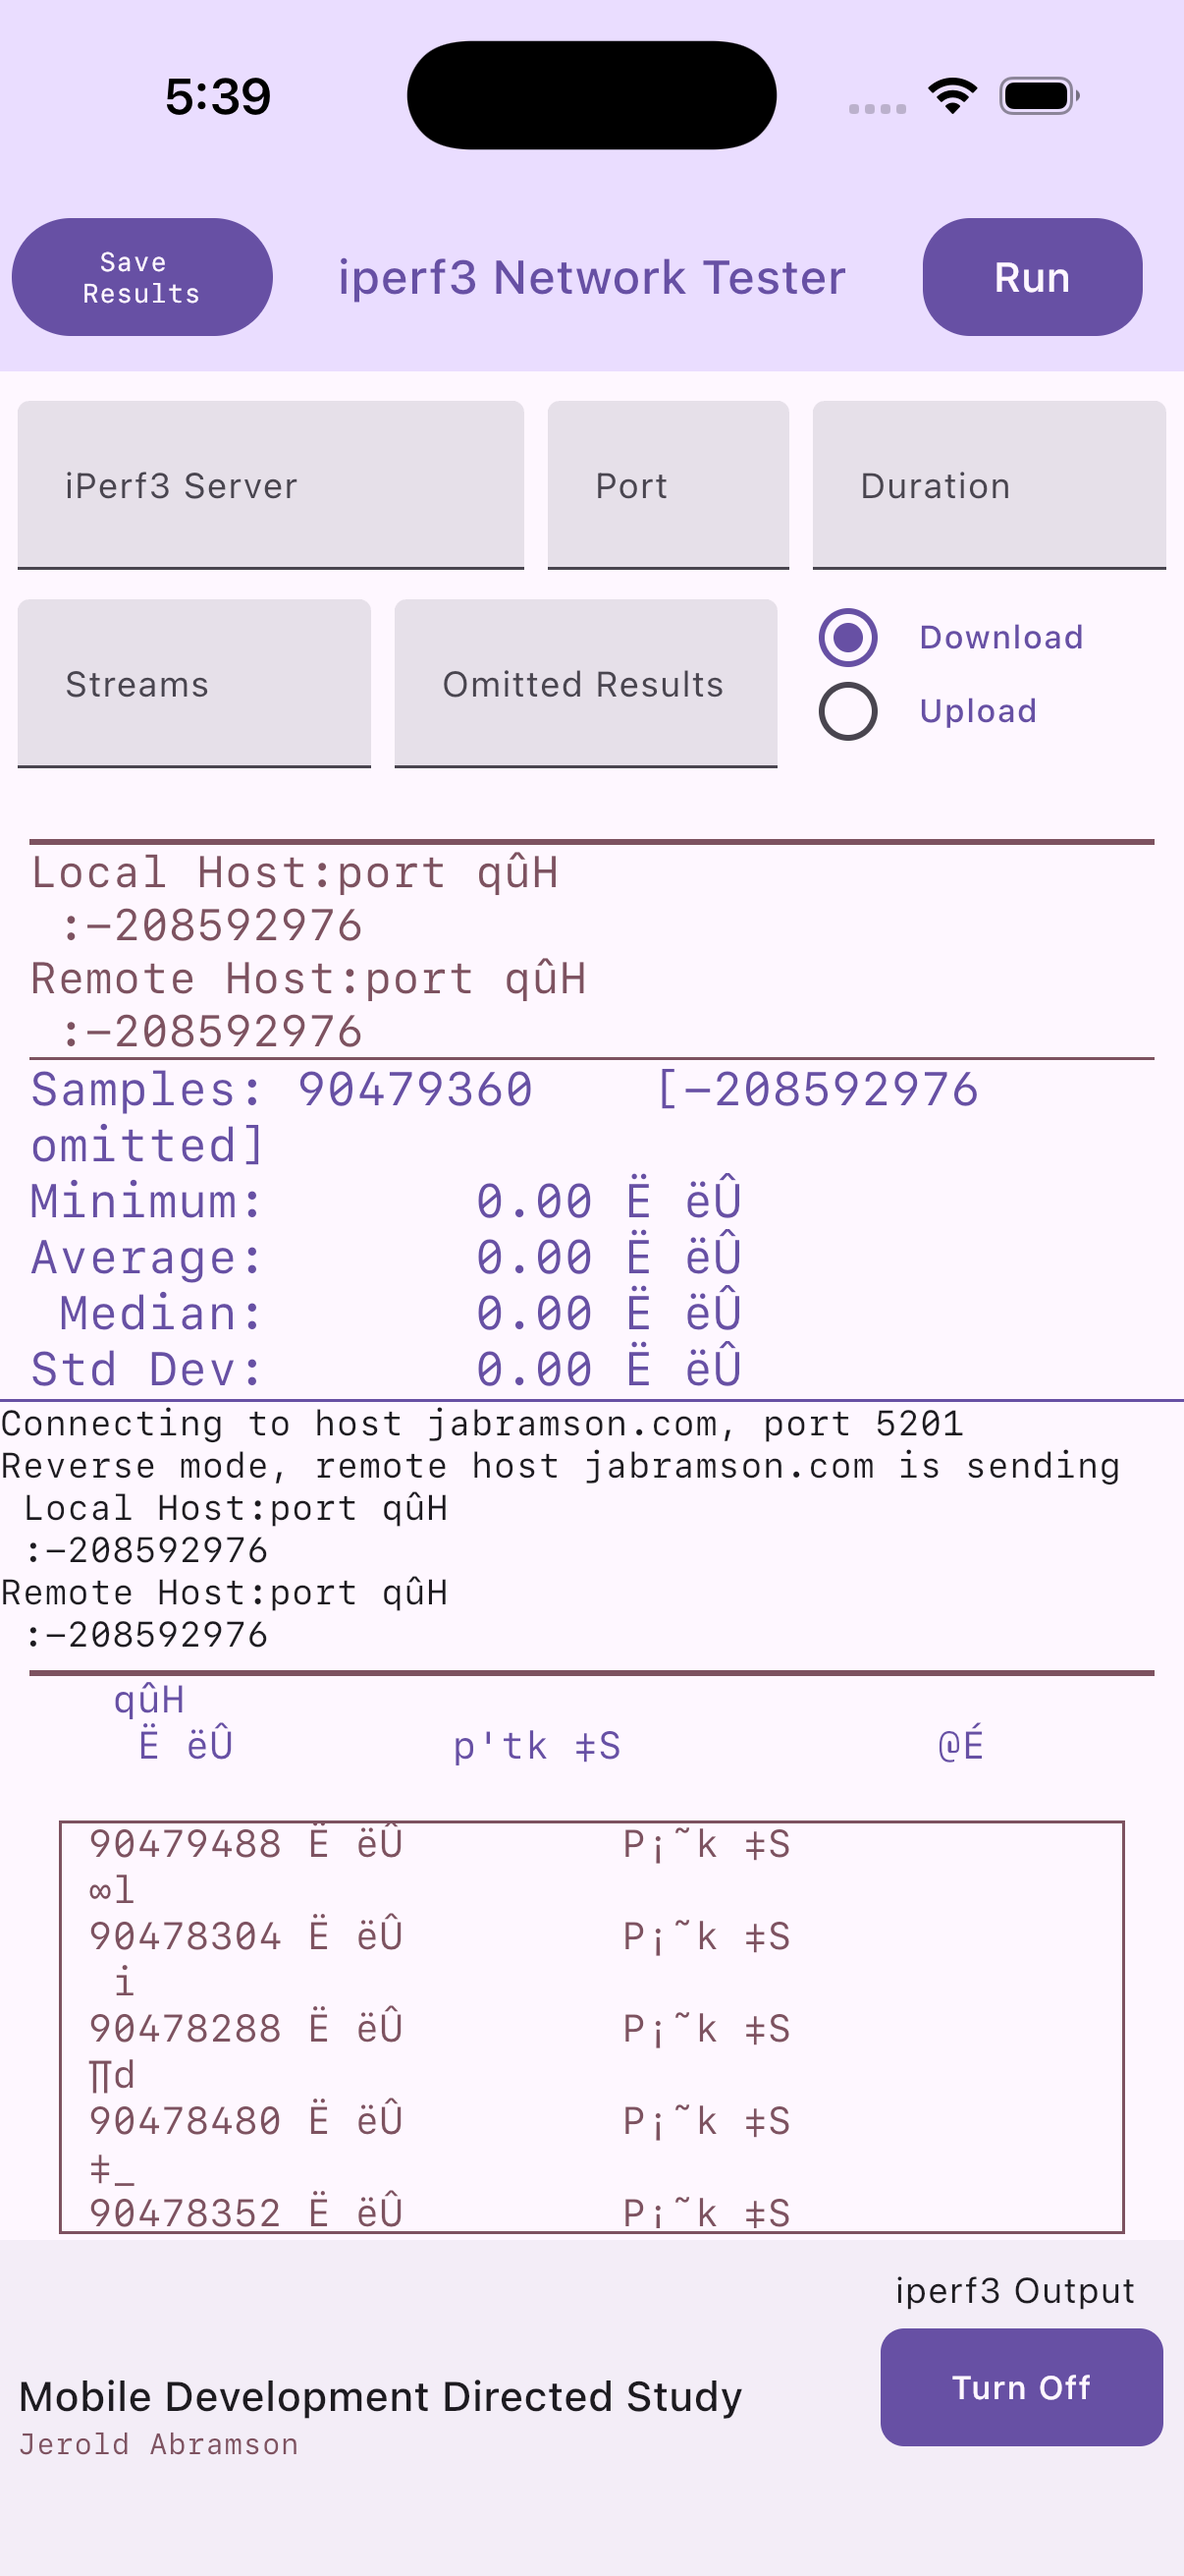
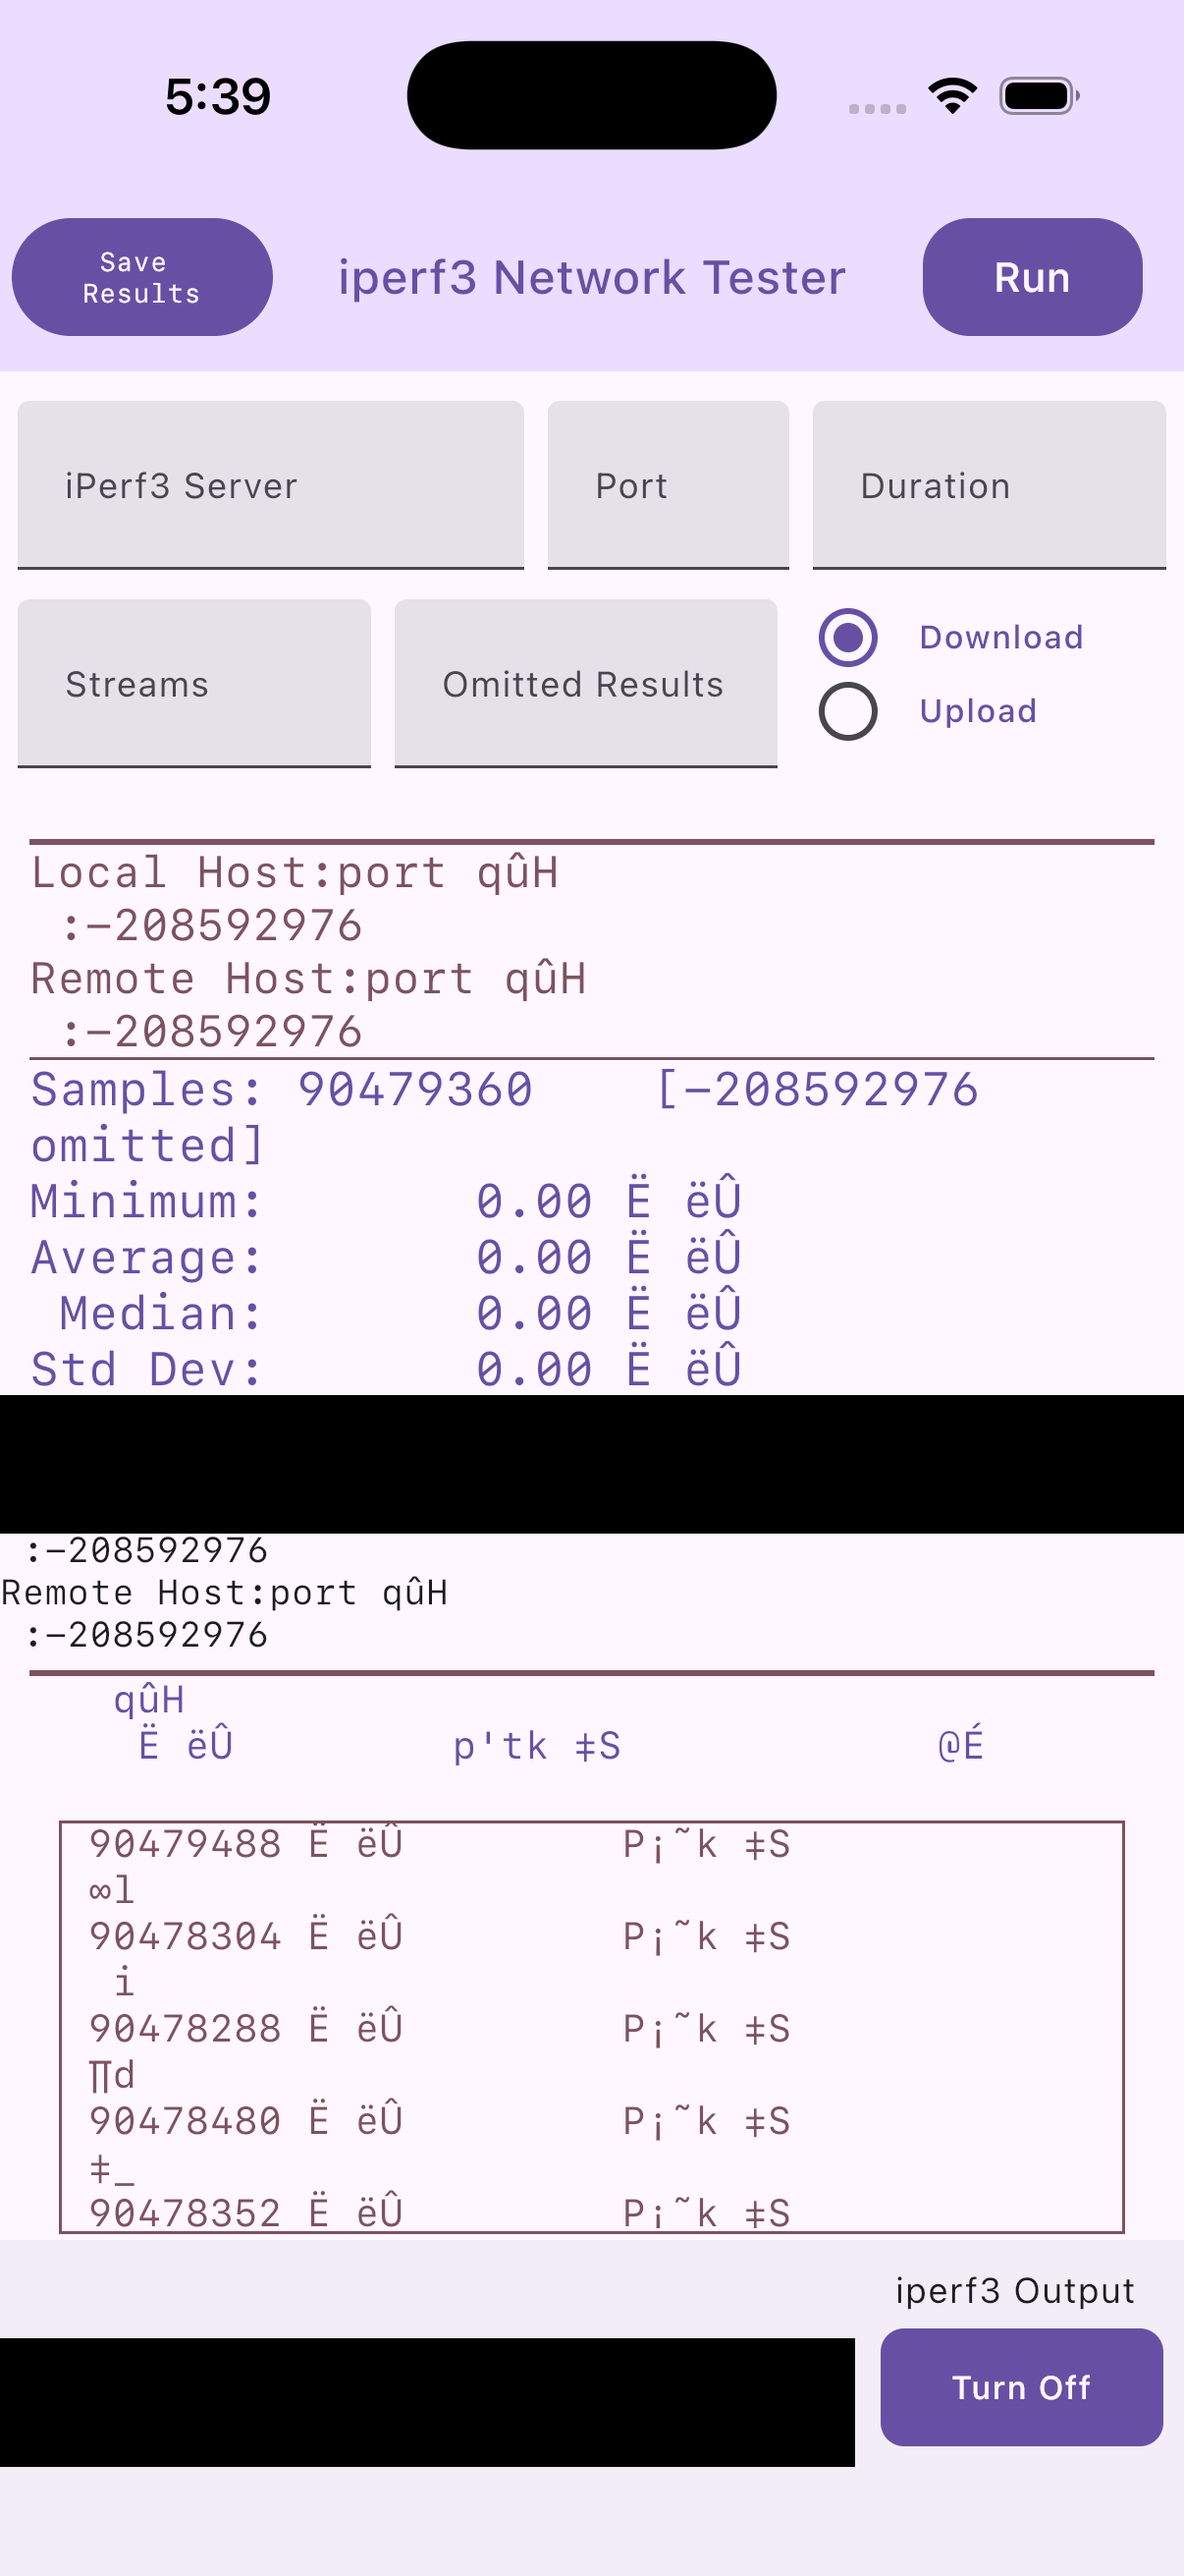
Final pre-publish sweep: redact PII from evidence screenshots
docs/research/evidence/*.png are actually cited by PRINTF_FORMATTING_CASE_STUDY.md
and MVP_MATURITY_ASSESSMENT.md (unlike the two orphaned screenshots removed
earlier), so they were redacted in place rather than deleted, preserving
the project's own 'claims backed by artifacts, not just prose' standard:

- Blacked out the 'Mobile Development Directed Study' / 'Jerold Abramson'
  UI footer on the three phone screenshots.
- Blacked out real private IPs (192.168.1.x), a public IP, and personal
  domain hostnames (jabramson.com and subdomains, gb10) appearing in
  iperf3 server fields and connection-log text across all four images.
  All numeric/technical evidence (throughput tables, error output,
  garbled-text demonstration) left intact.
- Generalized a device nickname in TEST_MATRIX.md to a description.

Claude-Session: https://claude.ai/code/session_01SfYkEuoZXtGKoSvhMKi2Kj

Changed region(s): [[0.0, 0.5252, 1.0, 0.6178], [0.0, 0.8959, 0.7363, 0.9577]]

diff --git a/docs/platform-builds/TEST_MATRIX.md b/docs/platform-builds/TEST_MATRIX.md
@@ -94,7 +94,7 @@ not as the final evidence for x86_64.
 | Ubuntu aarch64 (GB10, Grace Blackwell) | ✅ | `.deb` arm64 native build and install on a second distro |
 | Fedora x86_64 | ✅ (owner has it) | `.rpm` x86_64 native and container |
 | AMD Ryzen AI Developer Platform 1 (local x86_64 test host), Debian-derived, glibc 2.41 | ✅ | `.deb` amd64 install and test (2026-10-04) |
-| Debian or Ubuntu x86_64 | ⬜ No standard Debian/Ubuntu x86_64 machine. `amd-halo` (`rex`) is Debian-derived, glibc 2.41, and is only used for install tests | `.deb` amd64 container cell still needed |
+| Debian or Ubuntu x86_64 | ⬜ No standard Debian/Ubuntu x86_64 machine. One available x86_64 box is Debian-derived (glibc 2.41) but not a standard release, and is only used for install tests | `.deb` amd64 container cell still needed |
 | Clean Windows 11 x64 (snapshot) | ✅ (owner has it) | Re-verify the checklist from a truly clean start |
 | **Clean Windows 11 ARM64 VM (snapshot)** | ⬜ recommended | Same, for ARM64 |
 | **Clean macOS user account** | ⬜ recommended | `.dmg` install |
